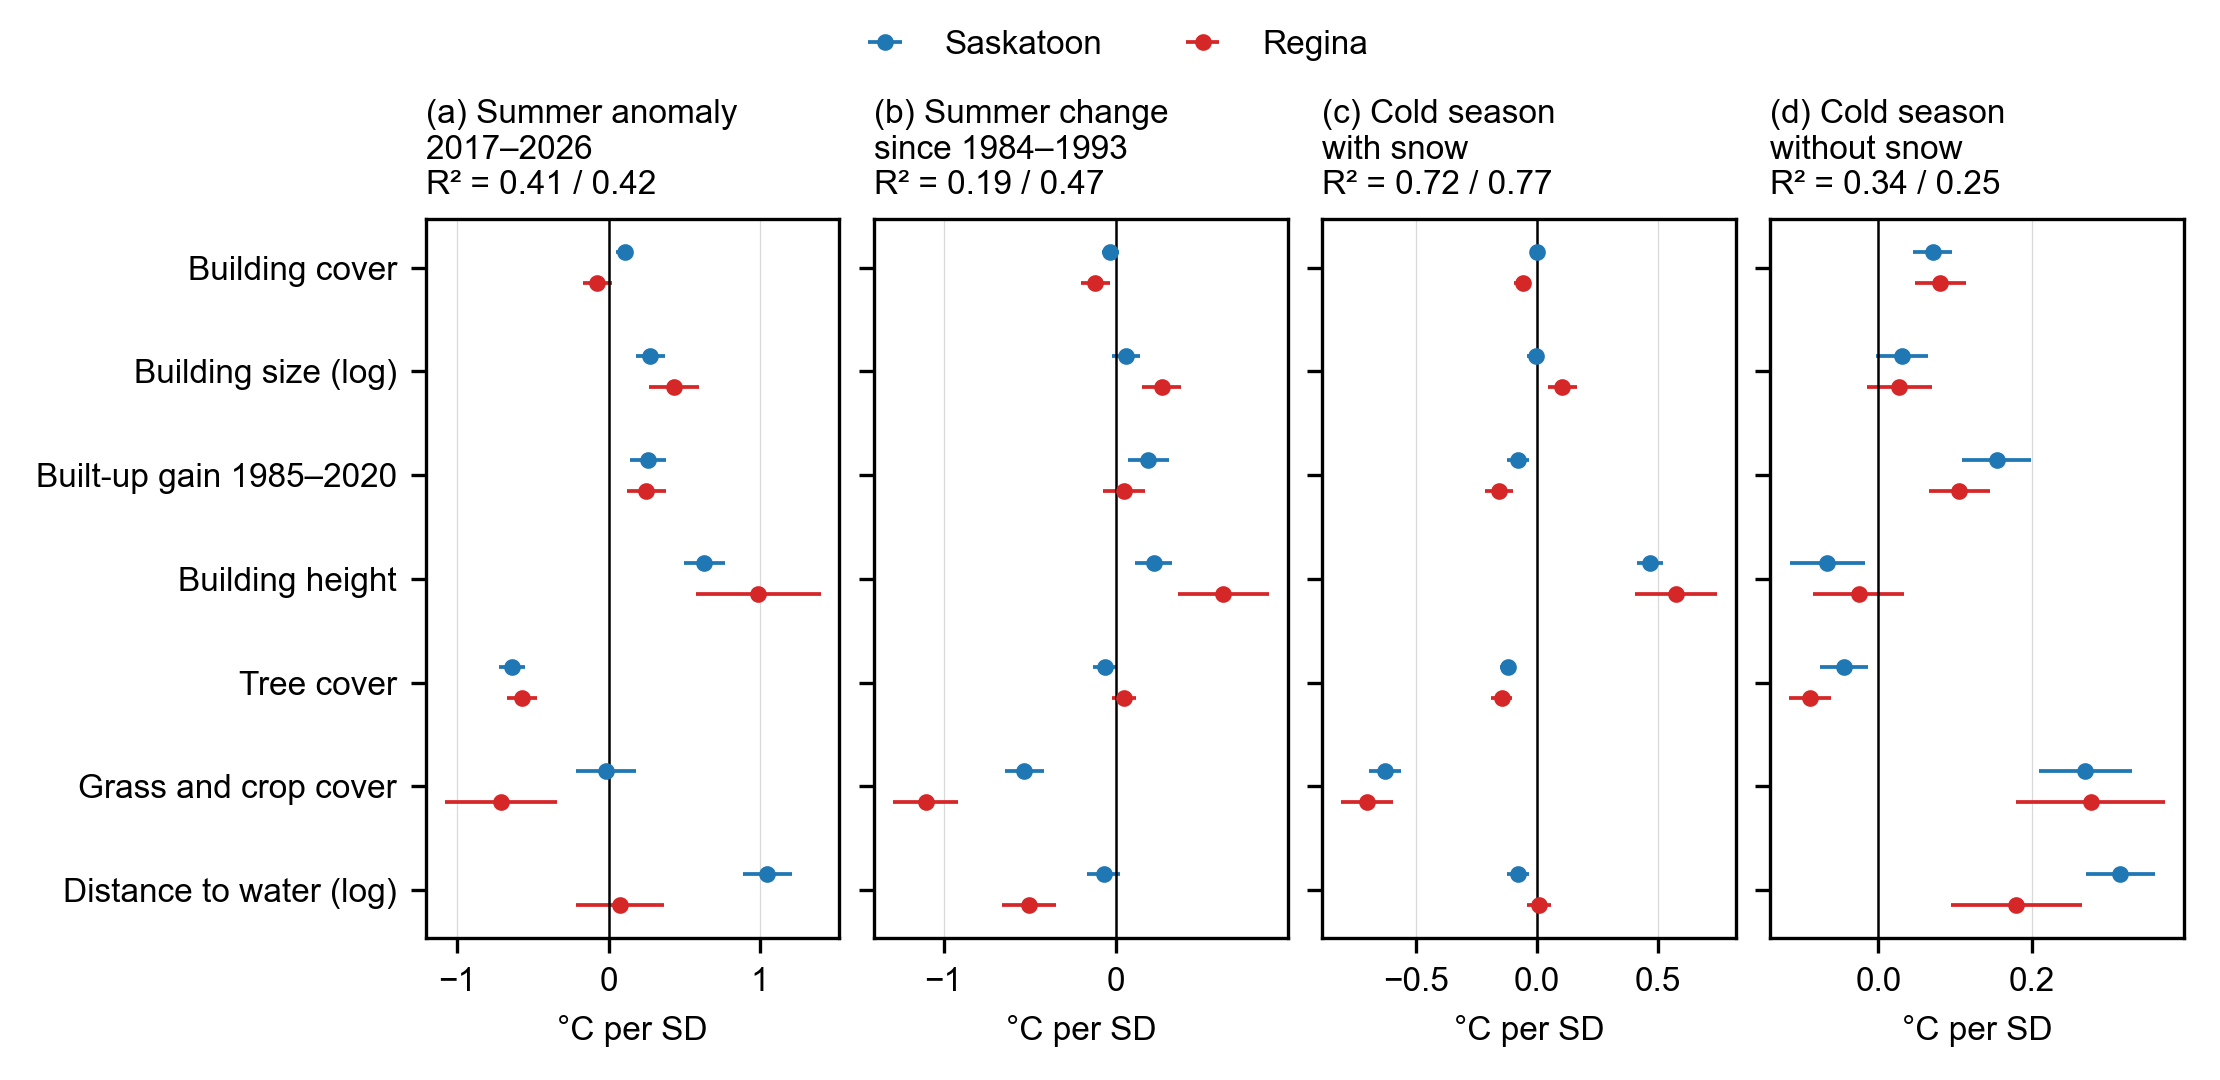
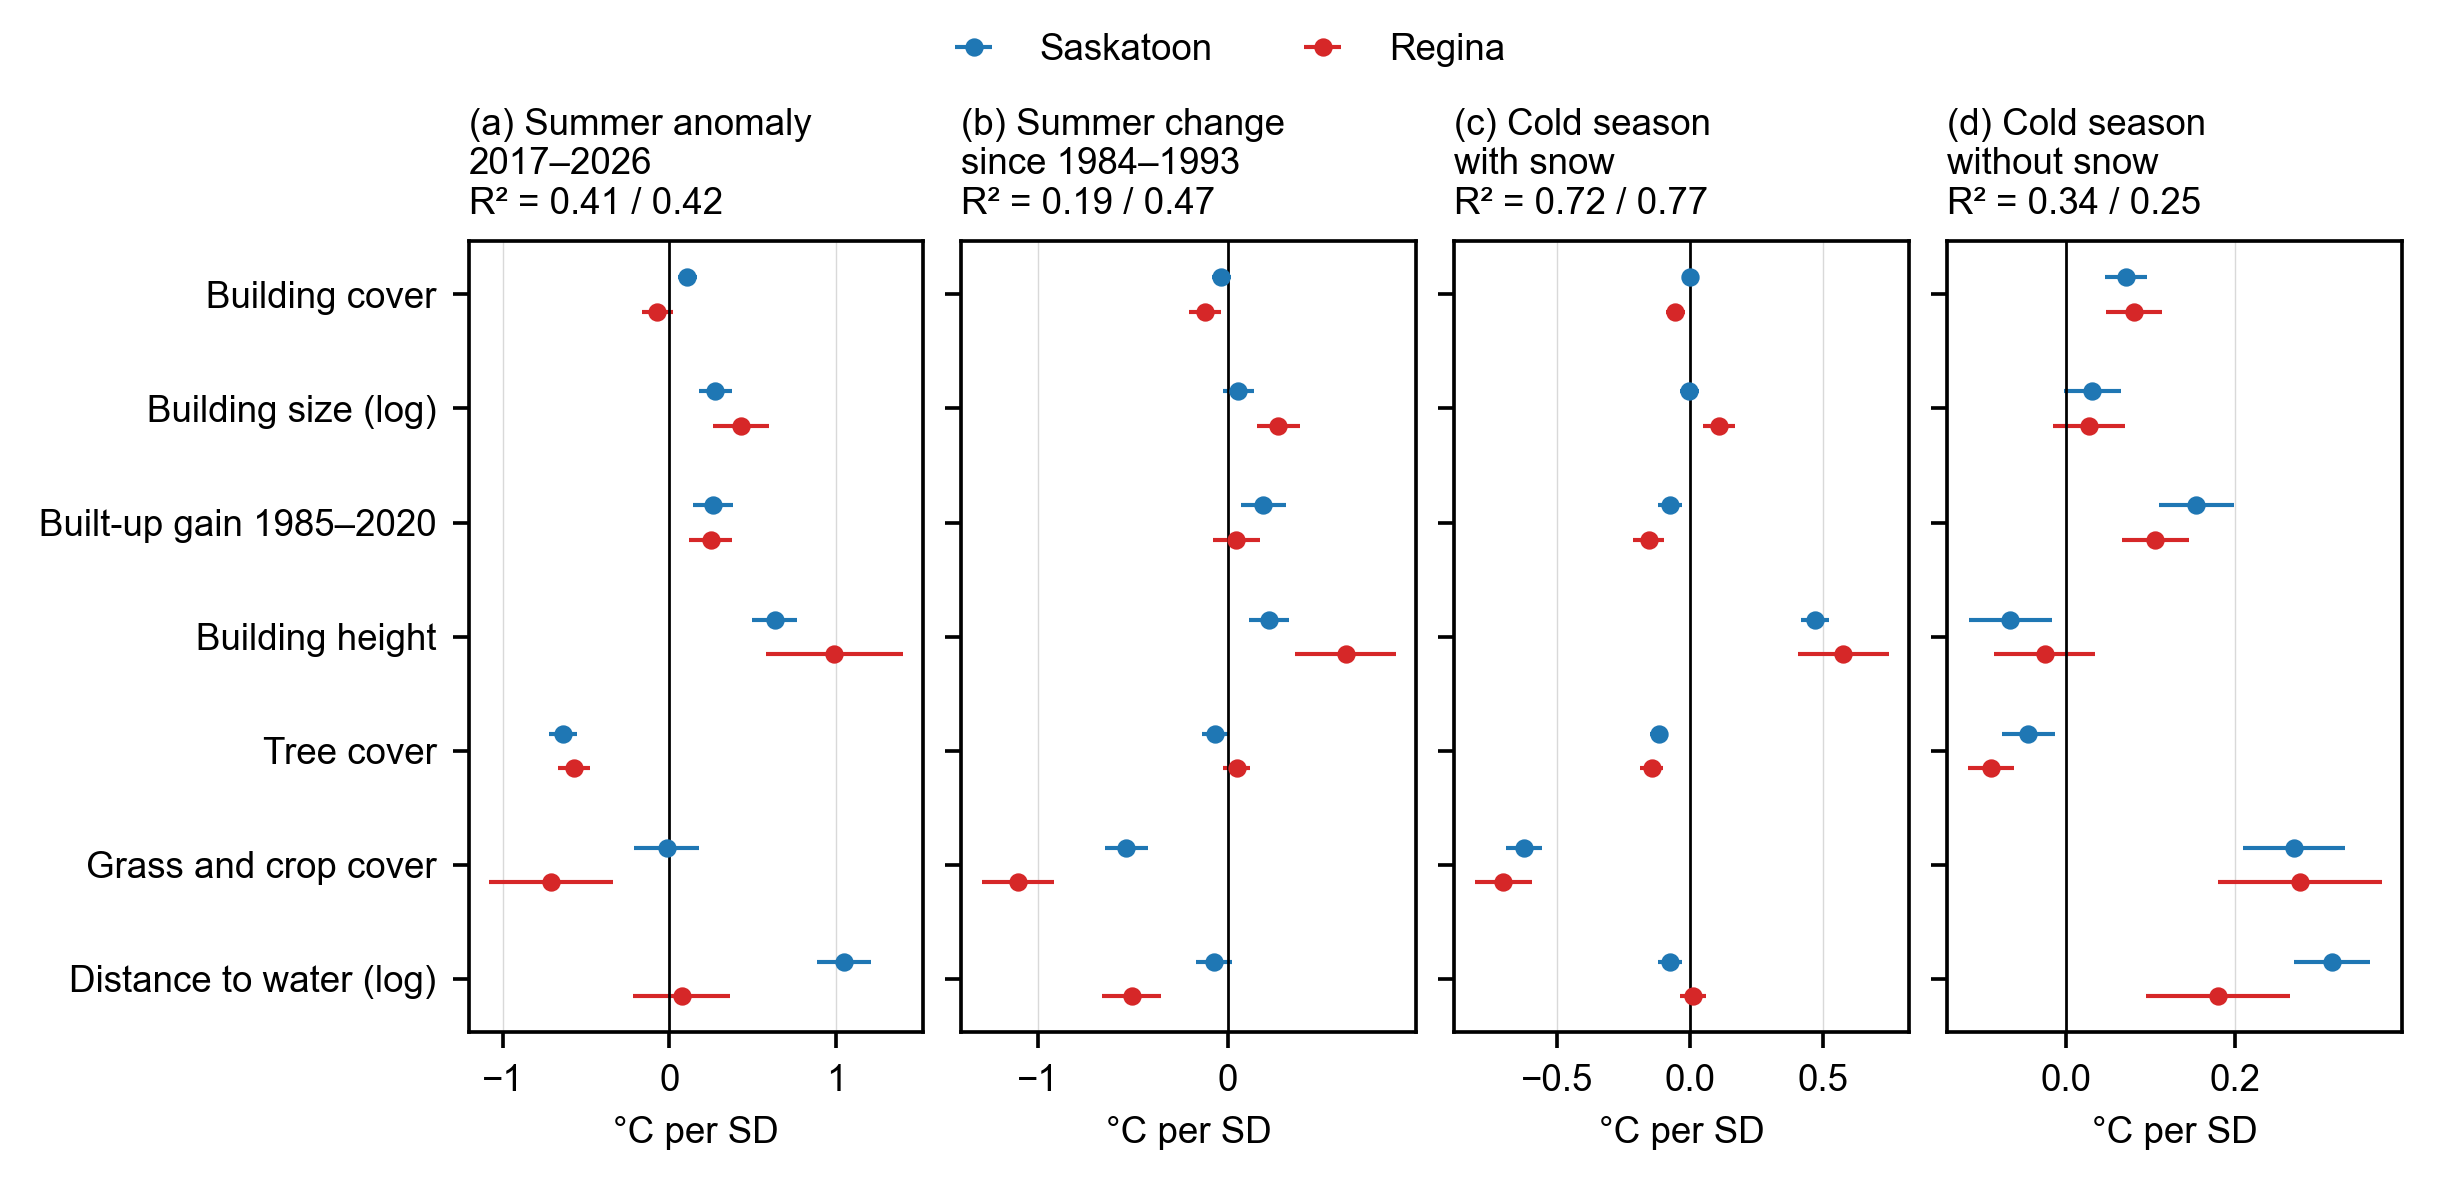
Save Figures 6-8 at full-page width required by Urban Climate (>=2244 px)

diff --git a/scripts/18_driver_models.py b/scripts/18_driver_models.py
@@ -117,7 +117,7 @@ axes[0].set_yticklabels([LABEL[k] for k in DRIVERS])
 h, l = axes[0].get_legend_handles_labels()
 fig.legend(h, l, loc="upper center", ncol=2, frameon=False, fontsize=8)
 fig.tight_layout(w_pad=0.6, rect=(0, 0, 1, 0.94))
-fig.savefig(os.path.join(ROOT, "figures", "ms_fig6_drivers.png"), dpi=300)
+fig.savefig(os.path.join(ROOT, "figures", "ms_fig6_drivers.png"), dpi=330)
 
 # ---------------- Table: driver means by summer hot-spot group ----------------
 order = ["Intensifying hot", "Persistent hot", "Other hot", "No pattern", "Cold spot"]

diff --git a/scripts/20_rural_greenness_test.py b/scripts/20_rural_greenness_test.py
@@ -247,5 +247,5 @@ for j, city in enumerate(CITIES):
     ax.set_title(f"({'cd'[j]}) {NAMES[city]}, crop inventory", loc="left")
 h, l = axes[1, 0].get_legend_handles_labels()
 fig.legend(h, l, loc="lower center", ncol=4, frameon=False, bbox_to_anchor=(0.5, -0.09))
-fig.savefig(os.path.join(ROOT, "figures", "ms_fig8_rural_greenness.png"), dpi=300, bbox_inches="tight")
+fig.savefig(os.path.join(ROOT, "figures", "ms_fig8_rural_greenness.png"), dpi=330, bbox_inches="tight")
 print("\nsaved figure")

diff --git a/scripts/16_air_temp_check.py b/scripts/16_air_temp_check.py
@@ -134,5 +134,5 @@ for ax, city, letter in zip(axes, ["saskatoon", "regina"], "ab"):
 axes[0].set_ylabel("Urban minus rural (°C)")
 axes[0].legend(frameon=False, fontsize=8, loc="upper left")
 fig.tight_layout()
-fig.savefig(os.path.join(ROOT, "figures", "ms_fig7_air_temp.png"), dpi=300)
+fig.savefig(os.path.join(ROOT, "figures", "ms_fig7_air_temp.png"), dpi=340)
 print("saved figure")
